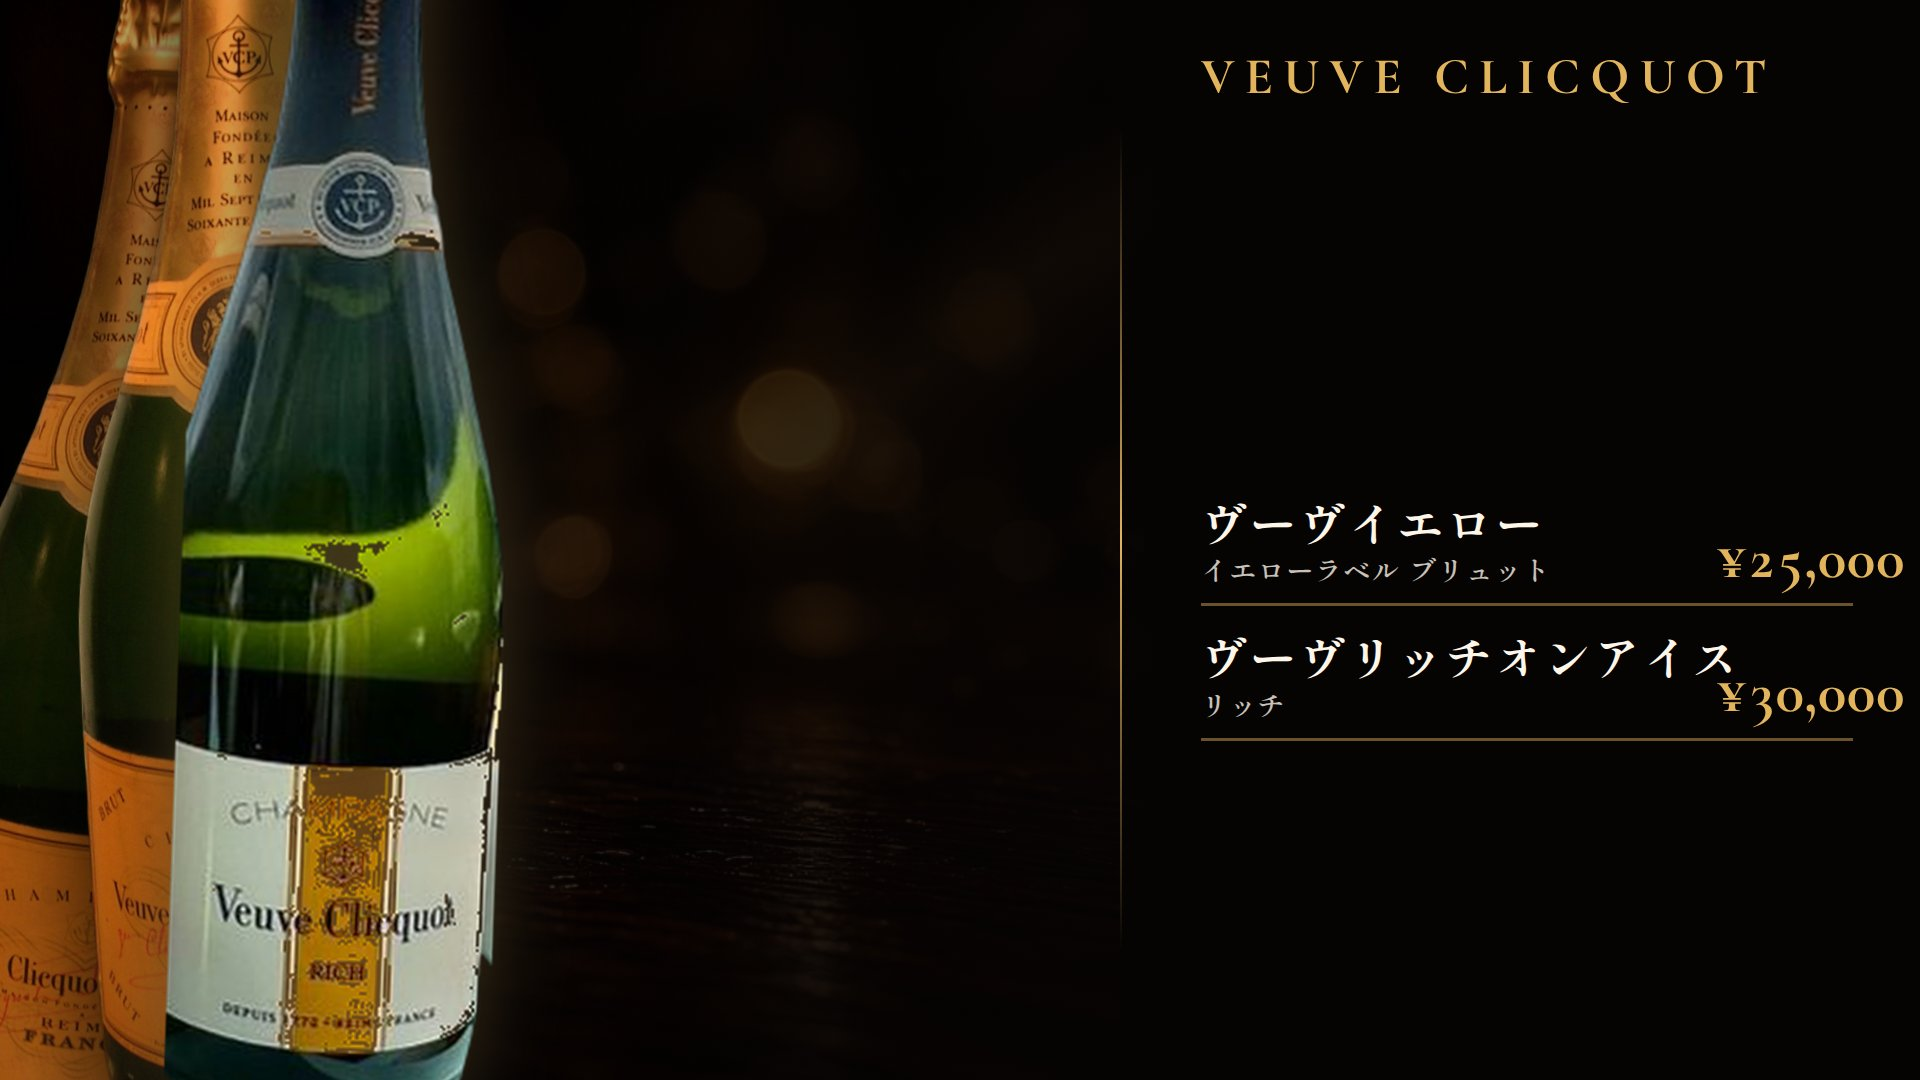
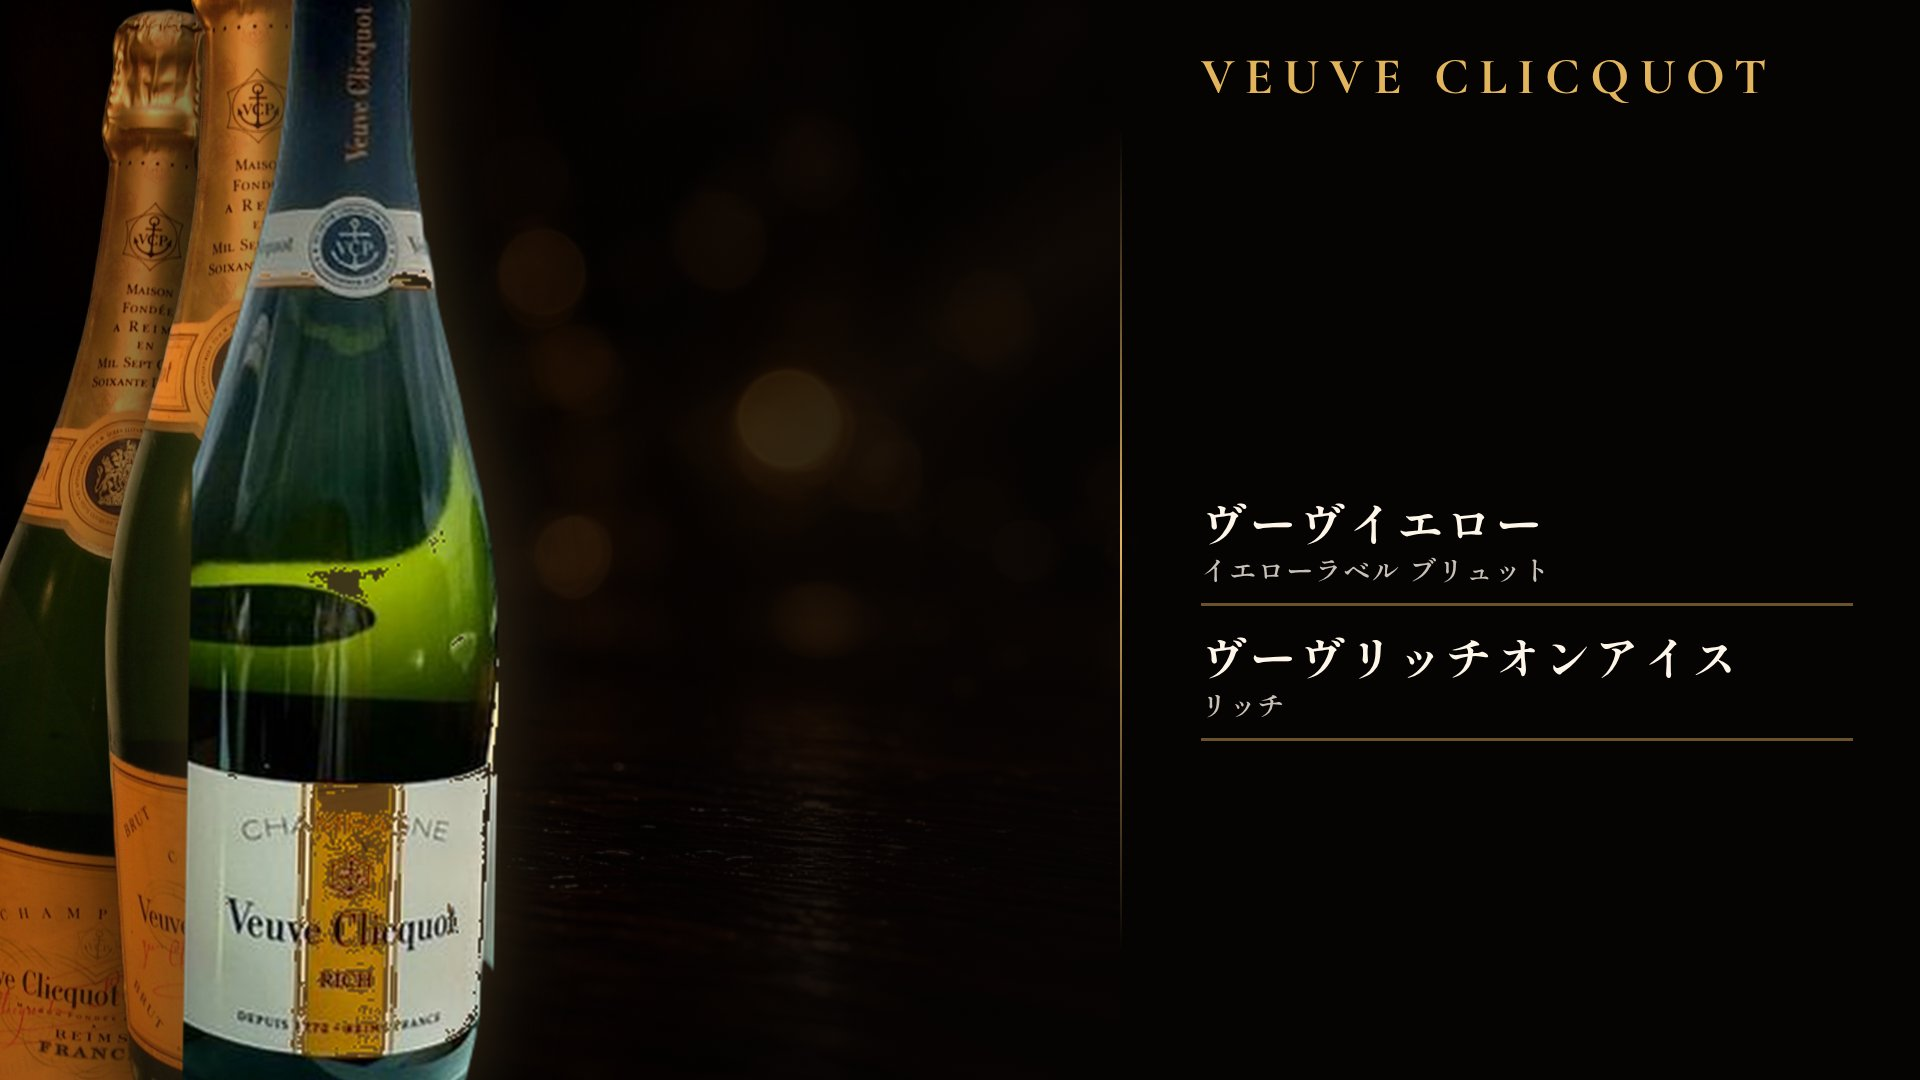
Stop mid-bottle clipping on Veuve and lock price column width
Keep full bottle silhouettes visible; opaque menu covers any soft edge.

Changed region(s): [[0.0, 0.0, 0.2812, 1.0], [0.9062, 0.4889, 1.0, 0.55], [0.9062, 0.6417, 1.0, 0.6722]]

diff --git a/designs/final-veuve-series.css b/designs/final-veuve-series.css
@@ -1,22 +1,22 @@
 .stage{position:relative;width:100%;height:100%}
 .bg{position:absolute;inset:0;width:100%;height:100%;object-fit:cover;filter:brightness(.32)}
 .shade{position:absolute;inset:0;z-index:1}
-.drama{position:absolute;left:0;top:0;bottom:0;width:42%;z-index:2;pointer-events:none;overflow:hidden}
+.drama{position:absolute;left:0;top:0;bottom:0;width:48%;z-index:2;pointer-events:none;overflow:visible}
 .b{position:absolute;object-fit:contain;filter:drop-shadow(0 30px 60px rgba(0,0,0,.75));will-change:transform}
 .b1{z-index:1;animation:driftA 7.5s ease-in-out infinite}
 .b2{z-index:2;animation:driftB 8.5s ease-in-out infinite}
 .b3{z-index:3;animation:driftC 6.8s ease-in-out infinite}
 .b4{z-index:5;animation:driftD 7.2s ease-in-out infinite}
-.b5{z-index:4;animation:driftE 9s ease-in-out infinite}
+.b5{display:none}
 
-.panel{position:absolute;right:0;top:0;bottom:0;width:min(56vw,800px);z-index:3;padding:0 3.5vw 6vh 4.2vw;display:flex;flex-direction:column;background:linear-gradient(90deg,rgba(6,4,3,.88) 0%,rgba(6,4,3,.96) 12%,rgba(6,4,3,.99) 100%)}
+.panel{position:absolute;right:0;top:0;bottom:0;width:min(56vw,800px);z-index:3;padding:0 3.5vw 6vh 4.2vw;display:flex;flex-direction:column;background:linear-gradient(90deg,rgba(6,4,3,.94) 0%,rgba(6,4,3,.98) 10%,rgba(6,4,3,.995) 100%)}
 .panel .title-zone{flex:0 0 22%;display:flex;align-items:flex-start;padding-top:4.5vh;min-height:0}
 .panel .title{position:static;margin:0;transform:none;left:auto;right:auto;top:auto;font-size:clamp(1.9rem,3.6vw,3.2rem);letter-spacing:.2em;white-space:nowrap}
 .list{flex:1;margin-top:0;display:flex;flex-direction:column;justify-content:center;gap:2.4vh;min-height:0}
 .list .nick{white-space:nowrap;font-size:clamp(1.7rem,3.3vw,2.9rem);letter-spacing:.06em}
-.row{display:grid;grid-template-columns:minmax(0,1fr) 8.5em;align-items:end;column-gap:1.2rem;border-bottom:3px solid rgba(226,180,92,.45);padding-bottom:1.4vh}
+.row{display:grid;grid-template-columns:minmax(0,1fr) 9em;align-items:end;column-gap:1.4rem;border-bottom:3px solid rgba(226,180,92,.45);padding-bottom:1.4vh}
 .row>div{min-width:0}
-.list .price{justify-self:end;text-align:right;width:100%;font-variant-numeric:tabular-nums}
+.list .price{justify-self:stretch;text-align:right;width:9em;margin:0;font-variant-numeric:tabular-nums;font-feature-settings:"tnum"}
 .panel::before{content:"";position:absolute;left:0;top:12%;bottom:12%;width:2px;background:linear-gradient(180deg,transparent,var(--gold),transparent)}
 .ghost{display:none}.floor{display:none}
 
@@ -28,8 +28,8 @@
 @media (prefers-reduced-motion:reduce){.b1,.b2,.b3,.b4,.b5{animation:none!important}}
 
 .shade{background:linear-gradient(100deg,rgba(6,4,3,.04) 0%,rgba(6,4,3,.3) 34%,rgba(6,4,3,.8) 58%,rgba(6,4,3,.96) 72%)}
-.b1{left:-22%;bottom:-16%;height:100%;opacity:.16;--r1:-12deg;transform:rotate(-12deg)}
-.b2{left:-6%;bottom:-12%;height:118%;opacity:.78;--r2:5deg;transform:rotate(5deg);z-index:4}
-.b3{left:8%;bottom:-8%;height:128%;opacity:1;--r3:-2deg;transform:rotate(-2deg);z-index:5}
-.b4{left:22%;bottom:-6%;height:132%;opacity:1;--r4:2deg;transform:rotate(2deg);z-index:6;filter:drop-shadow(0 0 40px rgba(226,180,92,.28)) drop-shadow(0 30px 60px rgba(0,0,0,.75))}
+.b1{left:-20%;bottom:-16%;height:96%;opacity:.16;--r1:-10deg;transform:rotate(-10deg)}
+.b2{left:-4%;bottom:-12%;height:112%;opacity:.75;--r2:4deg;transform:rotate(4deg);z-index:4}
+.b3{left:10%;bottom:-8%;height:122%;opacity:1;--r3:-2deg;transform:rotate(-2deg);z-index:5}
+.b4{left:20%;bottom:-6%;height:126%;opacity:1;--r4:1deg;transform:rotate(1deg);z-index:6;filter:drop-shadow(0 0 40px rgba(226,180,92,.28)) drop-shadow(0 30px 60px rgba(0,0,0,.75))}
 .b5{display:none}
